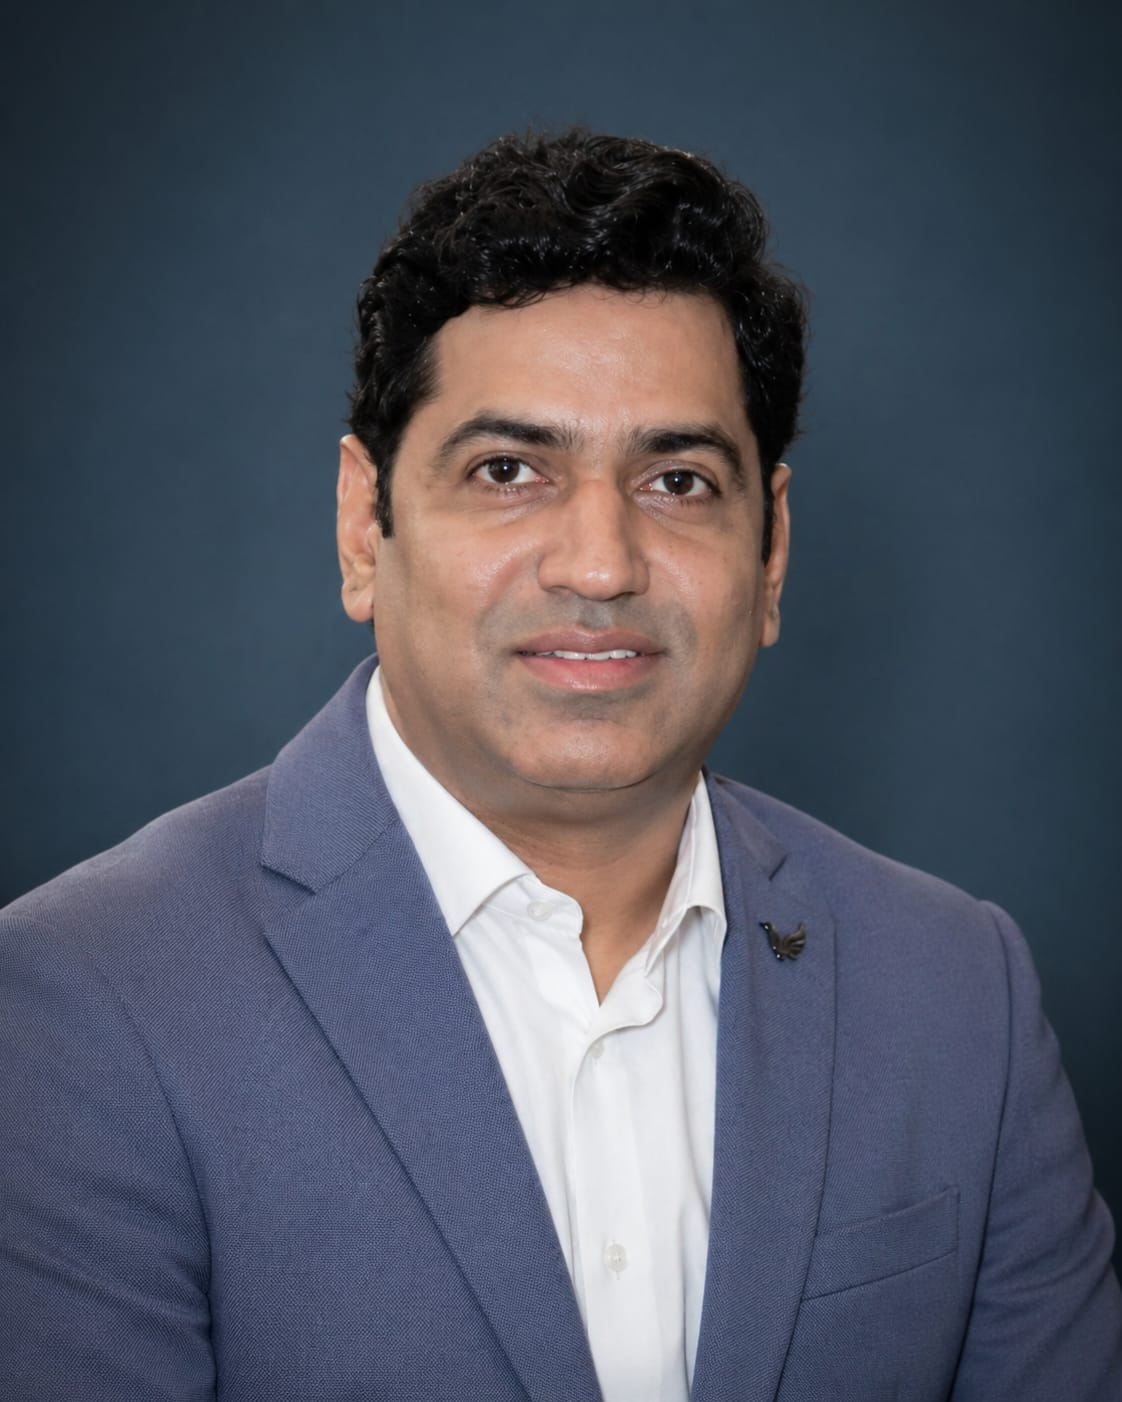
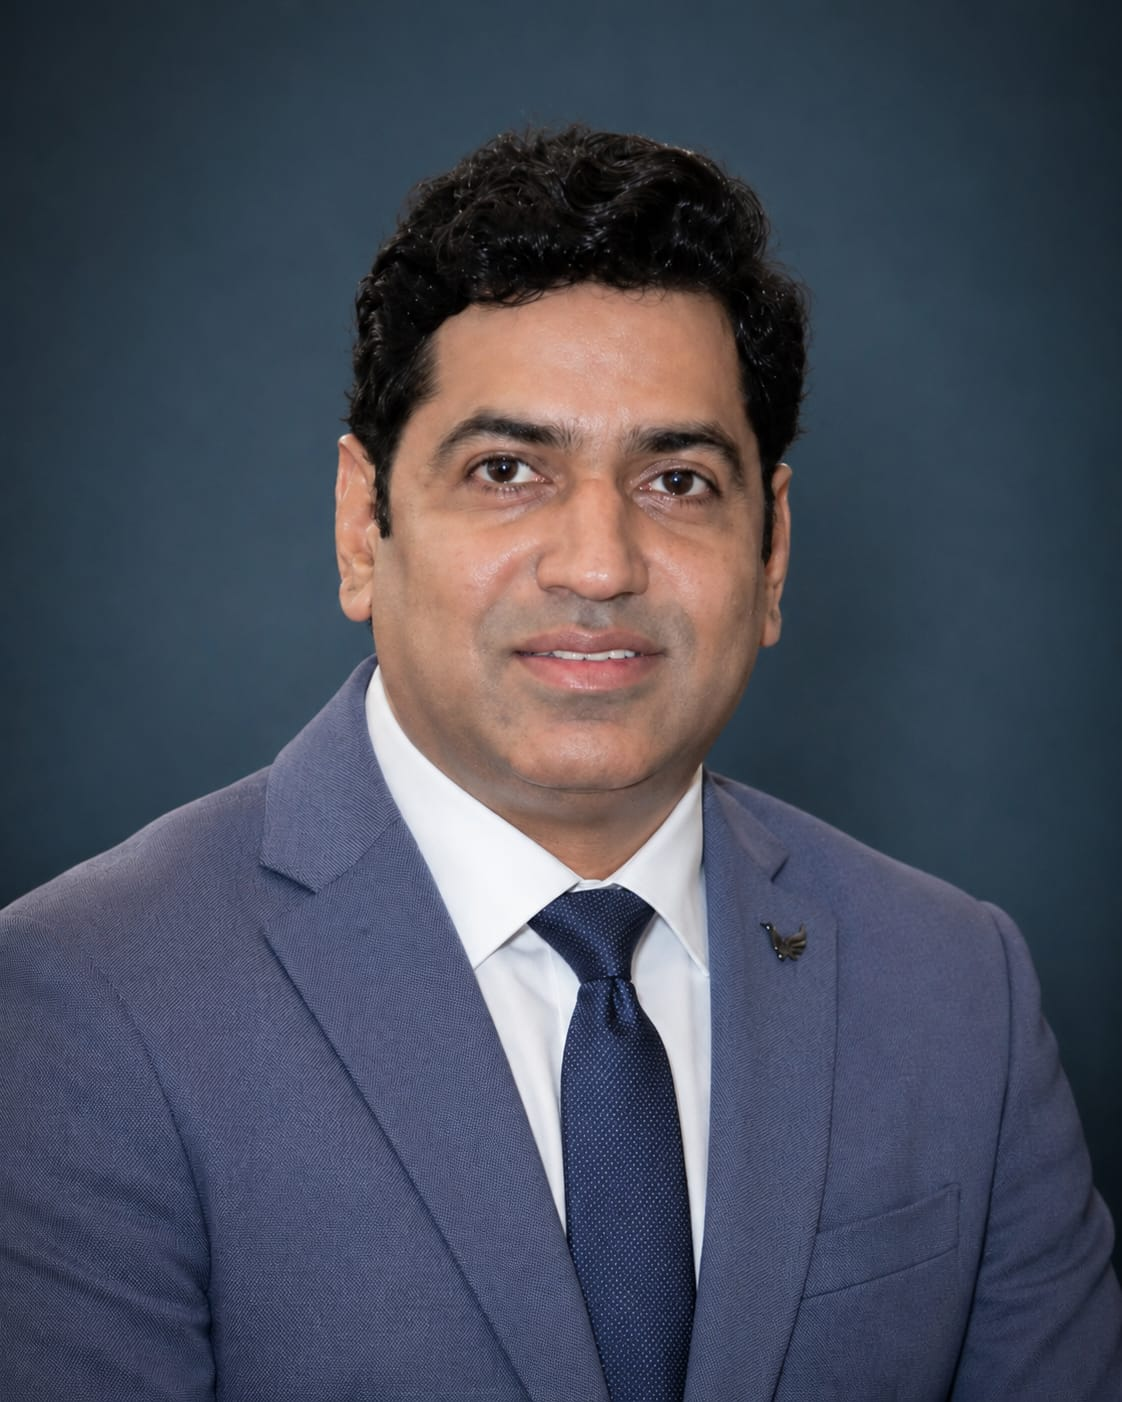
feat: Enable server-side Gemini API and add routing
Integrates the server-side Gemini API for enhanced functionality and introduces react-router-dom for navigation.

diff --git a/src/components/About.tsx b/src/components/About.tsx
@@ -1,5 +1,5 @@
 import { motion } from "motion/react";
-import { CheckCircle2 } from "lucide-react";
+import { CheckCircle2, Stethoscope } from "lucide-react";
 import drSumanImg from "../assets/images/regenerated_image_1778415979485.jpg";
 import drGopalImg from "../assets/images/regenerated_image_1778235663660.jpg";
 import mrDeepakImg from "../assets/images/regenerated_image_1778679514018.jpg";
@@ -34,16 +34,34 @@ const doctors = [
   },
   {
     name: "Mr. Deepak Garg",
-    degree: "Healthcare Entrepreneur & Dental Hygienist",
+    degree: "Founder and CEO",
     specialization: "Preventive Healthcare",
-    bio: "Mr. Deepak Garg is a passionate healthcare entrepreneur and dental hygienist known for his dedication to patient care, preventive healthcare, and clinical excellence. Through Allied Health Plus, he aims to deliver trusted, compassionate, and advanced healthcare services for every patient.",
+    bio: "Mr. Deepak Garg is the Founder and CEO of Allied Health Plus, driven by a passion for clinical excellence and patient-centric care. Under his visionary leadership, the organization focuses on delivering trusted, compassionate, and advanced healthcare solutions that prioritize preventive wellness for all.",
     image: mrDeepakImg,
     highlights: [
-      "Visionary Healthcare Explorer",
-      "Dental Hygiene Expert",
-      "Patient-Centric Leadership",
+      "Founder & CEO",
+      "Visionary Healthcare Leader",
+      "Patient-Centric Approach",
       "Modern Healthcare Solutions",
     ],
+  },
+];
+
+const expertTeam = [
+  {
+    name: "Dr. Pulkit Sharma",
+    degree: "Orthodontic MDS",
+    specialization: "Orthodontics",
+  },
+  {
+    name: "Dr. Ekta Parihar",
+    degree: "Dentist BDS MPH",
+    specialization: "Public Health Dentistry",
+  },
+  {
+    name: "Dr. Arun S",
+    degree: "Expert Consultant",
+    specialization: "Specialized Care",
   },
 ];
 
@@ -97,13 +115,19 @@ export function About() {
                   <img 
                     src={doctor.image} 
                     alt={doctor.name} 
-                    className={`w-full object-cover transition-opacity duration-500 opacity-95 dark:opacity-85 ${dIdx === 1 ? 'h-[450px] md:h-[704px]' : dIdx === 2 ? 'h-[680px] md:h-[1200px]' : 'h-full'}`}
+                    className={`object-cover transition-opacity duration-500 opacity-95 dark:opacity-85 ${
+                      dIdx === 1 
+                        ? 'w-full h-[450px] md:h-[704px]' 
+                        : dIdx === 2 
+                          ? 'w-full md:w-[1100px] h-[600px] md:h-[1000px]' 
+                          : 'w-full h-full'
+                    }`}
                   />
                 </div>
                 {/* Decorative Elements */}
                 <div className={`absolute -bottom-10 ${dIdx % 2 === 0 ? '-right-10' : '-left-10'} w-64 h-64 bg-blue-100/50 dark:bg-blue-900/20 rounded-full blur-3xl -z-0 opacity-50 dark:opacity-30`} />
                 <div className={`absolute top-1/2 -translate-y-1/2 glass-card p-6 rounded-2xl shadow-xl z-20 hidden md:block min-w-[240px] ${
-                  dIdx % 2 === 1 ? '-right-12' : '-left-12'
+                  (dIdx % 2 === 1 || dIdx === 2) ? '-right-12' : '-left-12'
                 }`}>
                    <p className="text-blue-600 dark:text-blue-400 font-bold uppercase text-[9px] tracking-[0.2em] mb-2">{doctor.specialization}</p>
                    <p className="text-black dark:text-white font-bold text-xl">{doctor.name}</p>
@@ -174,7 +198,53 @@ export function About() {
             </div>
           ))}
         </div>
+
+        {/* New Expert Team Section */}
+        <div className="mt-32 pt-24 border-t border-slate-100 dark:border-slate-800">
+          <div className="text-center mb-16">
+            <motion.h2
+              initial={{ opacity: 0, y: 20 }}
+              whileInView={{ opacity: 1, y: 0 }}
+              viewport={{ once: true }}
+              className="text-3xl md:text-4xl font-display font-bold text-black dark:text-white mb-4"
+            >
+              Our <span className="text-blue-600 dark:text-blue-500">Expert Team</span>
+            </motion.h2>
+            <p className="text-slate-500 dark:text-slate-400 max-w-xl mx-auto text-sm md:text-base">
+              Meet our secondary team of specialized consultants dedicated to your health.
+            </p>
+          </div>
+
+          <div className="grid md:grid-cols-3 gap-8">
+            {expertTeam.map((member, index) => (
+              <motion.div
+                key={member.name}
+                initial={{ opacity: 0, y: 20 }}
+                whileInView={{ opacity: 1, y: 0 }}
+                viewport={{ once: true }}
+                transition={{ delay: index * 0.1 }}
+                className="glass-card p-8 rounded-3xl border border-slate-100 dark:border-slate-800/50 shadow-sm hover:shadow-xl transition-all duration-500 group"
+              >
+                <div className="flex flex-col gap-4">
+                  <div className="w-12 h-12 bg-blue-50 dark:bg-blue-900/30 rounded-2xl flex items-center justify-center text-blue-600 dark:text-blue-400 group-hover:scale-110 transition-transform duration-500">
+                    <Stethoscope size={24} />
+                  </div>
+                  <div>
+                    <h4 className="text-xl font-bold text-black dark:text-white mb-1">{member.name}</h4>
+                    <p className="text-blue-600 dark:text-blue-400 font-bold uppercase text-[10px] tracking-widest mb-3">
+                      {member.specialization}
+                    </p>
+                    <p className="text-slate-500 dark:text-slate-400 text-sm font-medium leading-relaxed">
+                      {member.degree}
+                    </p>
+                  </div>
+                </div>
+              </motion.div>
+            ))}
+          </div>
+        </div>
       </div>
     </section>
+
   );
 }

diff --git a/src/components/Reviews.tsx b/src/components/Reviews.tsx
@@ -1,25 +1,55 @@
 import { motion } from "motion/react";
 import { Star, Quote, ChevronLeft, ChevronRight } from "lucide-react";
 import { useState } from "react";
+import patientImg2 from "../assets/images/regenerated_image_1778911566519.jpg";
+import patientImg3 from "../assets/images/regenerated_image_1778911788744.webp";
+import patientImg4 from "../assets/images/regenerated_image_1778911915453.webp";
+import patientImg5 from "../assets/images/regenerated_image_1778912027136.webp";
+import patientImg6 from "../assets/images/regenerated_image_1778912219921.webp";
+import patientImg7 from "../assets/images/regenerated_image_1778913774391.webp";
 
 const testimonials = [
   {
-    name: "Rahul Sharma",
-    role: "Patient",
-    text: "The staff is courteous, and the clinic environment is very pleasant. Dr. Suman is very experienced and made me feel at ease during my treatment.",
+    name: "Anjali Gupta",
+    role: "RCT Patient",
+    text: "I was terrified of root canal treatment, but the advanced painless RCT here changed my perspective. Modern equipment and a very gentle approach. Highly recommended!",
     stars: 5,
+    image: patientImg2
   },
   {
-    name: "Priya Singh",
-    role: "Patient",
-    text: "Highly recommend this place for anyone looking for braces or aligners. The results are incredible and the process was smooth and painless.",
+    name: "Suresh Khanna",
+    role: "Cataract (Phaco) Patient",
+    text: "Had my cataract surgery using the Phaco system. The procedure was quick, and my vision was restored within days. Excellent eye care facility in Jaipur.",
     stars: 5,
+    image: patientImg3
   },
   {
-    name: "Amit Verma",
-    role: "Patient",
-    text: "Professional and caring treatment experience. The clinic follows high hygiene standards which is very important to me. Truly the best in Jaipur.",
+    name: "Meera Deshmukh",
+    role: "Retina & Fundus Exam Patient",
+    text: "The retina and fundus examination was very detailed. The doctors explained every aspect of my eye health clearly. Very tech-forward diagnostic approach.",
     stars: 5,
+    image: patientImg4
+  },
+  {
+    name: "Sumit Singhania",
+    role: "Laser Hair Removal Patient",
+    text: "Started my advance laser hair removal sessions here. The technology is safe and effective on Indian skin. I'm already seeing great results after just three sittings.",
+    stars: 5,
+    image: patientImg5
+  },
+  {
+    name: "Rohit Kapoor",
+    role: "Aesthetics Patient",
+    text: "The Botox and Fillers treatment by the specialists here gave me a subtle, youthful glow. They definitely have an artistic touch for facial aesthetics.",
+    stars: 5,
+    image: patientImg6
+  },
+  {
+    name: "Karan Johar",
+    role: "Hair PRP Patient",
+    text: "I visited for Hair PRP (Rich Plasma Therapy) to combat thinning. The procedure was comfortable and I've noticed significant improvement in my hair quality.",
+    stars: 5,
+    image: patientImg7
   },
 ];
 
@@ -49,7 +79,7 @@ export function Reviews() {
 
             <div className="w-24 h-24 md:w-32 md:h-32 bg-navy-premium dark:bg-blue-600 rounded-[32px] overflow-hidden flex-shrink-0 transition-colors duration-500">
                <img 
-                 src={`https://api.dicebear.com/7.x/avataaars/svg?seed=${testimonials[active].name}`} 
+                 src={testimonials[active].image || `https://api.dicebear.com/7.x/avataaars/svg?seed=${testimonials[active].name}`} 
                  alt={testimonials[active].name} 
                  className="w-full h-full object-cover"
                />

diff --git a/src/App.tsx b/src/App.tsx
@@ -31,14 +31,12 @@ export default function App() {
     if (typeof window !== "undefined") {
       const saved = localStorage.getItem("theme") as Theme;
       if (saved) return saved;
-      // Default to light for medical app often preferred, or check media query
       if (window.matchMedia("(prefers-color-scheme: dark)").matches) return "dark";
     }
     return "light";
   });
 
   useEffect(() => {
-    // Apply theme to document
     if (theme === "dark") {
       document.documentElement.classList.add("dark");
     } else {
@@ -65,10 +63,12 @@ export default function App() {
     function raf(time: number) {
       lenis.raf(time);
       
-      // Update progress bar
-      const progress = (window.scrollY / (document.documentElement.scrollHeight - window.innerHeight)) * 100;
-      const progressBar = document.getElementById('scroll-progress');
-      if (progressBar) progressBar.style.width = `${progress}%`;
+      const scrollHeight = document.documentElement.scrollHeight - window.innerHeight;
+      if (scrollHeight > 0) {
+        const progress = (window.scrollY / scrollHeight) * 100;
+        const progressBar = document.getElementById('scroll-progress');
+        if (progressBar) progressBar.style.width = `${progress}%`;
+      }
       
       requestAnimationFrame(raf);
     }
@@ -85,6 +85,7 @@ export default function App() {
       <main className="min-h-screen bg-white dark:bg-slate-950 selection:bg-blue-600 selection:text-white transition-colors duration-500">
         <LoadingScreen />
         <Navbar />
+        
         <Hero />
         <Stats />
         <About />
@@ -92,12 +93,13 @@ export default function App() {
         <BookingForm />
         <Reviews />
         <Contact />
+
         <Footer />
         <WhatsAppButton />
 
         {/* Scroll Progress Indicator */}
         <div className="fixed top-0 left-0 right-0 h-1 z-[100] bg-gray-100 dark:bg-slate-800 pointer-events-none">
-           <div id="scroll-progress" className="h-full bg-dental-turquoise transition-all duration-100 w-0" />
+           <div id="scroll-progress" className="h-full bg-blue-600 transition-all duration-100 w-0" />
         </div>
       </main>
     </ThemeContext.Provider>

diff --git a/src/components/Stats.tsx b/src/components/Stats.tsx
@@ -4,7 +4,7 @@ import { Shield, Sparkles, Timer, Heart, Smile } from "lucide-react";
 const stats = [
   { label: "Clinic Rating", value: "5.0", icon: Shield, suffix: "Stars" },
   { label: "Modern Equipment", value: "100", icon: Timer, suffix: "%" },
-  { label: "Patient Comfort", value: "8-11:30", icon: Heart, suffix: "PM" },
+  { label: "Daily Care Hours", value: "8 AM-11:30 PM", icon: Heart, suffix: "" },
   { label: "Smiles Created", value: "5000", icon: Smile, suffix: "+" },
 ];
 
@@ -28,6 +28,9 @@ export function Stats() {
               >
                 <div className="text-4xl md:text-5xl font-display font-bold mb-1">
                   {stat.value}
+                  {stat.suffix && (
+                    <span className="text-xl ml-1 opacity-80">{stat.suffix}</span>
+                  )}
                 </div>
                 <div className="text-[10px] opacity-70 uppercase tracking-[0.2em] font-bold">
                   {stat.label}